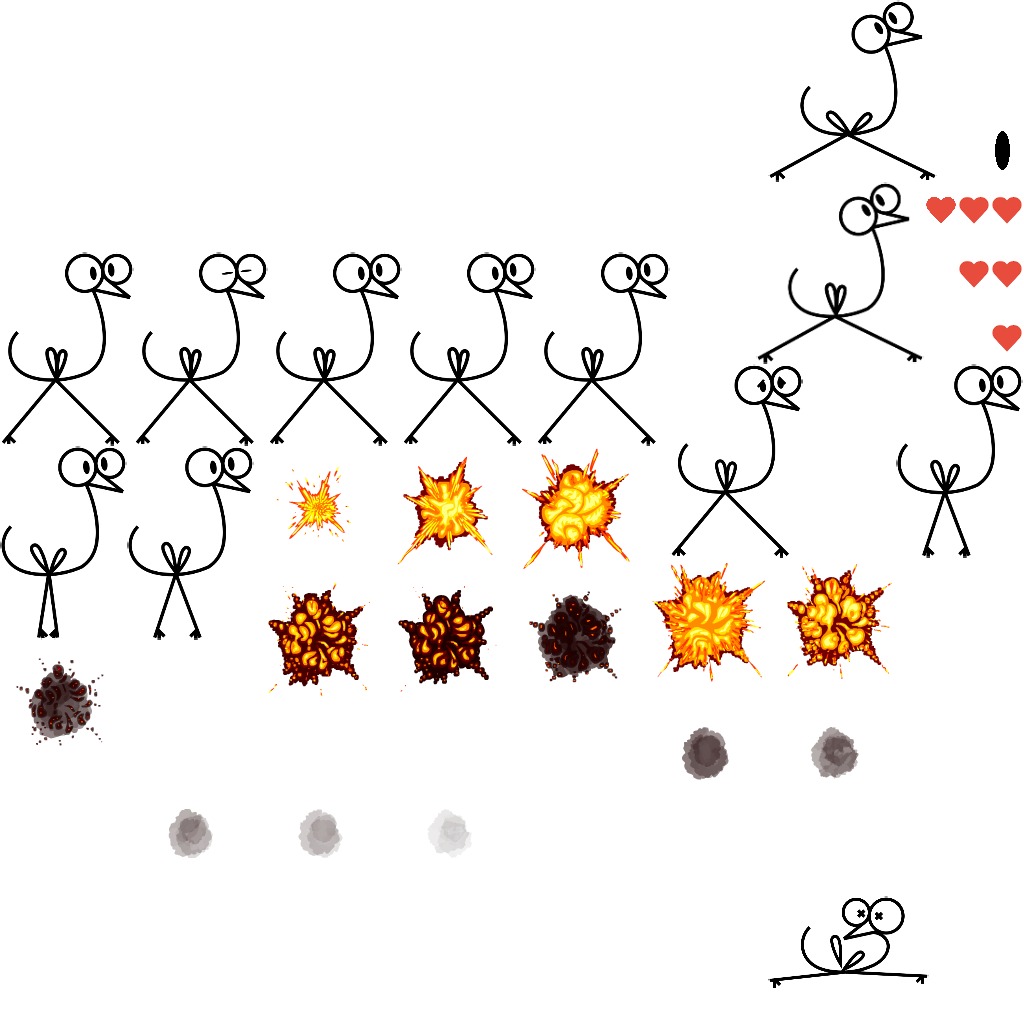
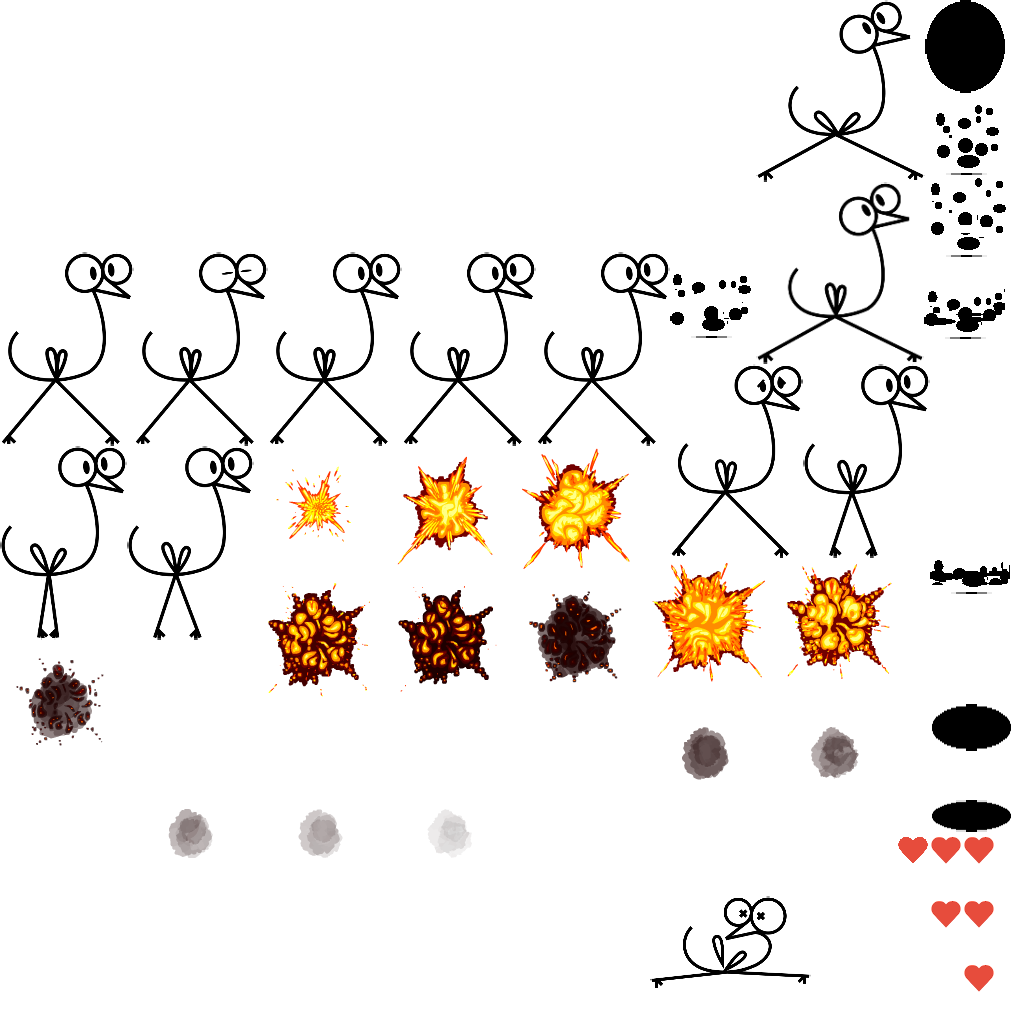
Drops 0.3

diff --git a/Franguilongo/data.js b/Franguilongo/data.js
@@ -1,1 +1,1 @@
-{"project":["Drops",null,[[0,false,true,true,true,true,true,true,true,true],[2,false,true,true,true,true,true,true,true,false],[7,false,true,true,true,true,true,true,true,false],[8,true,false,false,false,false,false,false,false,false],[9,true,false,false,false,false,false,false,false,false]],[["TiledBackground",0,false,[],1,0,["images/tiledbackground-sheet0.png",89,0,0,0,2,2],null,[["Solid",1,573632053130792]],false,false,648073564169996,[],null],["Sprite",2,false,[691345014251276],3,0,null,[["Blinking",5,true,1,0,false,311884812484082,[["images/shared-0-sheet0.png",211199,135,253,132,192,1,0.4318181818181818,1,[],[],0],["images/shared-0-sheet0.png",211199,1,253,132,192,1,0.4318181818181818,1,[],[-0.4318181818181818,-1,0.027883310719131582,-1,0.5681818181818181,-1,0.5681818181818181,-0.5728952772073922,0.5681818181818181,0,0.027883310719131582,0,-0.4318181818181818,0,-0.4318181818181818,-0.5728952772073922],0],["images/shared-0-sheet0.png",211199,269,253,132,192,1,0.4318181818181818,1,[],[-0.4318181818181818,-1,0.027883310719131582,-1,0.5681818181818181,-1,0.5681818181818181,-0.5728952772073922,0.5681818181818181,0,0.027883310719131582,0,-0.4318181818181818,0,-0.4318181818181818,-0.5728952772073922],0],["images/shared-0-sheet0.png",211199,403,253,132,192,1,0.4318181818181818,1,[],[-0.4318181818181818,-1,0.027883310719131582,-1,0.5681818181818181,-1,0.5681818181818181,-0.5728952772073922,0.5681818181818181,0,0.027883310719131582,0,-0.4318181818181818,0,-0.4318181818181818,-0.5728952772073922],0]]],["Walking",10,true,1,0,false,760921945451684,[["images/shared-0-sheet0.png",211199,537,253,132,192,1,0.36363636363636365,0.9947916666666666,[],[],0],["images/shared-0-sheet0.png",211199,897,365,125,192,1,0.384,0.9947916666666666,[],[],0],["images/shared-0-sheet0.png",211199,1,447,125,192,1,0.384,0.9947916666666666,[],[],0],["images/shared-0-sheet0.png",211199,128,447,125,192,1,0.384,0.9947916666666666,[],[],0]]],["Jumping",10,true,1,0,false,945552887204513,[["images/shared-0-sheet0.png",211199,769,1,167,180,1,0.47305389221556887,0.9944444444444445,[],[],0],["images/shared-0-sheet0.png",211199,757,183,166,180,1,0.4759036144578313,0.9944444444444445,[],[],0]]],["Sad",5,false,1,0,false,624982636265819,[["images/shared-0-sheet0.png",211199,671,365,131,192,1,0.3893129770992366,1,[],[],0]]],["Dead",5,false,1,0,false,122531426965580,[["images/shared-0-sheet0.png",211199,769,897,159,90,1,0.4591194968553459,0.9888888888888889,[],[],0]]]],[["Platform",3,186866265033085],["Flash",4,637199490651359],["BoundToLayout",5,909741888443321]],false,false,140964503252814,[],null],["Sprite2",2,false,[],1,0,null,[["Animation 1",5,false,1,0,false,104097505357344,[["images/shared-0-sheet0.png",211199,993,129,19,43,1,0.47368421052631576,0.9534883720930233,[],[],0]]]],[["Bullet",6,776215468649723]],false,false,452500526832754,[],null],["DarkRedHeartTransparentBackground",2,false,[],0,0,null,[["Default",0,false,1,0,false,328186743776857,[["images/shared-0-sheet0.png",211199,925,193,98,32,1,0.9999999999999999,0.46875,[],[-0.9897959183673468,-0.4375,-0.6632653061224489,-0.4375,-0.6632653061224489,0.53125,-0.9897959183673468,0.53125],0],["images/shared-0-sheet0.png",211199,925,257,98,32,1,1,0.46875,[],[-0.9897959183673469,-0.4375,-0.6632653061224489,-0.4375,-0.6632653061224489,0.53125,-0.9897959183673469,0.53125],0],["images/shared-0-sheet0.png",211199,925,321,98,32,1,1,0.46875,[],[-0.9897959183673469,-0.4375,-0.6632653061224489,-0.4375,-0.6632653061224489,0.53125,-0.9897959183673469,0.53125],0]]]],[],false,false,843974546907693,[],null],["Sprite3",2,false,[],0,0,null,[["Animation 1",15,false,1,0,false,915082731352190,[["images/shared-0-sheet0.png",211199,255,447,128,128,1,0.484375,0.484375,[],[],0],["images/shared-0-sheet0.png",211199,385,447,128,128,1,0.484375,0.484375,[],[],0],["images/shared-0-sheet0.png",211199,515,447,128,128,1,0.484375,0.484375,[],[],0],["images/shared-0-sheet0.png",211199,645,559,128,128,1,0.484375,0.484375,[],[],0],["images/shared-0-sheet0.png",211199,775,559,128,128,1,0.484375,0.484375,[],[],0],["images/shared-0-sheet0.png",211199,255,577,128,128,1,0.484375,0.484375,[],[],0],["images/shared-0-sheet0.png",211199,385,577,128,128,1,0.484375,0.484375,[],[],0],["images/shared-0-sheet0.png",211199,515,577,128,128,1,0.484375,0.484375,[],[],0],["images/shared-0-sheet0.png",211199,1,641,128,128,1,0.484375,0.484375,[],[],0],["images/shared-0-sheet0.png",211199,645,689,128,128,1,0.484375,0.484375,[],[],0],["images/shared-0-sheet0.png",211199,775,689,128,128,1,0.484375,0.484375,[],[],0],["images/shared-0-sheet0.png",211199,131,769,128,128,1,0.484375,0.484375,[],[],0],["images/shared-0-sheet0.png",211199,261,769,128,128,1,0.484375,0.484375,[],[],0],["images/shared-0-sheet0.png",211199,391,769,128,128,1,0.484375,0.484375,[],[],0],["images/shared-0-sheet0.png",211199,1,771,128,128,1,0.484375,0.484375,[],[],0],["images/shared-0-sheet0.png",211199,521,819,128,128,1,0.484375,0.484375,[],[],0]]]],[],false,false,322182893282253,[],null],["Text",7,false,[],0,0,null,null,[],false,false,853781776459319,[],null],["Text2",7,false,[],0,0,null,null,[],false,false,996966190515073,[],null],["Keyboard",8,false,[],0,0,null,null,[],false,false,908086171281078,[],null,[]],["Touch",9,false,[],0,0,null,null,[],false,false,348674781711052,[],null,[true]],["TouchRight",2,false,[],0,0,null,[["Animation 1",5,false,1,0,false,748614816075516,[["images/shared-0-sheet0.png",211199,1,1,250,250,1,0.5,0.5,[],[],0]]]],[],false,false,863497655711463,[],null],["ToucheLeft",2,false,[],0,0,null,[["Animation 1",5,false,1,0,false,470277280936923,[["images/shared-0-sheet0.png",211199,253,1,250,250,1,0.5,0.5,[],[],0]]]],[],false,false,545639505576629,[],null],["TouchUp",2,false,[],0,0,null,[["Animation 1",5,false,1,0,false,605917555089482,[["images/shared-0-sheet0.png",211199,505,1,250,250,1,0.5,0.5,[],[],0]]]],[],false,false,464666509452229,[],null]],[],[["Layout 1",1920,1080,false,"Event sheet 1",795333427025378,[["Layer 0",0,455458963541355,true,[255,255,255],false,1,1,1,false,false,1,0,0,[[[0,1024,0,1920,64,0,0,1,0,0,0,0,[]],0,1,[],[[true]],[true,0]],[[928,1024,0,119.78507462686568,176.62422997946612,0,0,1,0.4318181818181818,1,0,0,[]],1,2,[[3]],[[330,1500,1500,650,1500,1000,false,0,false,true],[],[1]],[true,"Blinking",0,true]],[[320,0,0,19,43,0,0,1,0.47368421052631576,0.9534883720930233,0,0,[]],2,3,[],[[0,0,1000,false,false,false,true]],[true,"Animation 1",0,true]],[[1888,48,0,98,32,0,0,1,0.9999999999999999,0.46875,0,0,[]],3,4,[],[],[true,"Default",0,true]],[[1024,-64,0,128,128,0,0,1,0.484375,0.484375,0,0,[]],4,5,[],[],[true,"Animation 1",0,true]],[[896,464,0,96,32,0,0,1,0,0,0,0,[]],5,6,[],[],["YOU LOSE!","Arial",12,0,false,false,[0,0,0],0,0,0,false,0]],[[32,32,0,200,30,0,0,1,0,0,0,0,[]],6,7,[],[],["Drops Avoided: 0","Arial",12,0,false,false,[0,0,0],0,0,0,true,0]],[[1437,779,0,960,624,0,0,1,0.5,0.5,0,0,[]],9,10,[],[],[true,"Animation 1",0,true]],[[464,776,0,928,624,0,0,1,0.5,0.5,0,0,[]],10,11,[],[],[true,"Animation 1",0,true]],[[960,224,0,1920,464,0,0,1,0.5,0.5,0,0,[]],11,12,[],[],[true,"Animation 1",0,true]]],[]]],[],[],[]]],[["Event sheet 1",[[1,"GameOver",2,false,false,false,291143209698729,false],[1,"Drops",0,0,false,false,332489462388240,false],[0,null,false,null,221678187849093,[[7,10,null,1,false,false,false,396279645971351,false],[-1,11,null,0,false,false,false,831394372396753,false,[[11,"GameOver"]]]],[[-1,12,null,753591277071441,false,[[11,"GameOver"],[3,0]]],[-1,13,null,770049977574955,false,[[11,"Drops"],[7,[1,0]]]],[-1,14,null,700853322199231,false]]],[0,null,false,null,536836065824233,[[-1,11,null,0,false,true,false,548174686591798,false,[[11,"GameOver"]]]],[],[[0,null,false,null,209041690291825,[[2,15,null,0,false,false,true,754779754522694,false,[[4,0]]]],[[2,16,null,989981405466613,false]],[[0,null,false,null,232932205671997,[[-1,11,null,0,false,true,false,707973007954042,false,[[11,"GameOver"]]]],[[-1,17,null,286090736200420,false,[[11,"Drops"],[7,[1,1]]]],[6,18,null,639134521024028,false,[[7,[10,[2,"Drops Avoided: "],[23,"Drops"]]]]]]]]],[0,null,false,null,185535392341683,[[-1,19,null,0,false,false,false,946030008723503,false,[[0,[1,0.3]]]]],[[-1,20,null,525491444762559,false,[[4,2],[5,[1,0]],[0,[19,21,[[1,0],[19,22]]]],[0,[1,0]]]]]],[0,null,false,null,330343093620594,[[1,23,null,0,false,false,false,318792376163121,false,[[10,0],[8,0],[7,[1,0]]]]],[[-1,12,null,265413076568542,false,[[11,"GameOver"],[3,1]]],[1,24,null,567009502036959,false,[[1,[2,"Dead"]],[3,1]]],[3,16,null,189921452192626,false],[3,25,null,247692947553926,false,[[4,4],[5,[1,0]],[7,[1,0]]]],[5,26,null,422987480735414,false,[[3,1]]]]],[0,null,false,null,670932378182675,[[2,15,null,0,false,false,true,250136539827882,false,[[4,1]]],[1,27,"Flash",0,false,true,false,519522673690044,false]],[[1,28,"Flash",761868559879138,false,[[0,[1,0.1]],[0,[1,0.1]],[0,[1,1]]]],[1,29,null,370139059365135,false,[[10,0],[7,[1,1]]]],[3,30,null,198851016797660,false,[[0,[5,[1,3],[21,1,false,null,0]]]]]]],[0,null,true,null,833594748358514,[[7,31,null,0,false,false,false,260287784253524,false,[[9,37]]],[8,32,null,0,false,false,false,153792525106203,false,[[4,10]]]],[[1,33,null,496931956318277,false,[[3,0]]],[1,34,"Platform",308524248851044,false,[[3,0]]]]],[0,null,true,null,214864402536857,[[7,31,null,0,false,false,false,669070147913069,false,[[9,39]]],[8,32,null,0,false,false,false,198463156453775,false,[[4,9]]]],[[1,33,null,737904512929112,false,[[3,1]]],[1,34,"Platform",133997310111039,false,[[3,1]]]]],[0,null,false,null,484610954716653,[[1,35,"Platform",0,false,false,false,798326249322446,false]],[[1,24,null,816829045660893,false,[[1,[2,"Jumping"]],[3,1]]]]],[0,null,false,null,489680445995601,[[1,27,"Flash",0,false,false,false,516736219765881,false]],[[1,24,null,682563507846389,false,[[1,[2,"Sad"]],[3,1]]]]],[0,null,false,null,157362056540493,[[1,36,"Platform",0,false,false,false,269577981722206,false],[1,37,"Platform",0,false,true,false,388820955834601,false]],[[1,24,null,412301235932988,false,[[1,[2,"Blinking"]],[3,1]]]]],[0,null,false,null,885693384114975,[[1,37,"Platform",0,false,false,false,115091740066957,false],[1,36,"Platform",0,false,false,false,912788760671952,false]],[[1,24,null,549816846735182,false,[[1,[2,"Walking"]],[3,1]]]]],[0,null,false,null,346024896180170,[[1,38,"Platform",0,false,false,false,396053626196403,false]],[[1,24,null,183073139649846,false,[[1,[2,"Jumping"]],[3,1]]]]]]],[0,null,false,null,480970799100046,[[-1,11,null,0,false,false,false,285851969464980,false,[[11,"GameOver"]]]],[[1,24,null,105794705853302,false,[[1,[2,"Dead"]],[3,1]]]]],[0,null,true,null,189474694174987,[[7,39,null,1,false,false,false,662693045916971,false,[[9,38]]],[8,32,null,0,false,false,false,451713366928989,false,[[4,11]]]],[[1,34,"Platform",691752790862313,false,[[3,2]]]]],[0,null,false,null,638633796105516,[[8,40,null,1,false,false,false,471457986024465,false],[-1,11,null,0,false,false,false,455557710080447,false,[[11,"GameOver"]]]],[[-1,14,null,997548114264296,false],[-1,12,null,987017520791929,false,[[11,"GameOver"],[3,0]]],[-1,13,null,500829506570016,false,[[11,"Drops"],[7,[1,0]]]]]]]]],[],"media/",false,1920,1080,4,true,true,true,"1.0.0.0",true,false,4,2,13,false,true,1,true,false,[],"icons/",[],true]}
+{"project":["Drops",null,[[0,false,true,true,true,true,true,true,true,true],[2,false,true,true,true,true,true,true,true,false],[7,false,true,true,true,true,true,true,true,false],[8,true,false,false,false,false,false,false,false,false],[9,true,false,false,false,false,false,false,false,false]],[["TiledBackground",0,false,[],1,0,["images/tiledbackground-sheet0.png",89,0,0,0,2,2],null,[["Solid",1,573632053130792]],false,false,648073564169996,[],null],["Sprite",2,false,[691345014251276],3,0,null,[["Blinking",5,true,1,0,false,311884812484082,[["images/shared-0-sheet0.png",216587,135,253,132,192,1,0.4318181818181818,1,[],[],0],["images/shared-0-sheet0.png",216587,1,253,132,192,1,0.4318181818181818,1,[],[-0.4318181818181818,-1,0.027883310719131582,-1,0.5681818181818181,-1,0.5681818181818181,-0.5728952772073922,0.5681818181818181,0,0.027883310719131582,0,-0.4318181818181818,0,-0.4318181818181818,-0.5728952772073922],0],["images/shared-0-sheet0.png",216587,269,253,132,192,1,0.4318181818181818,1,[],[-0.4318181818181818,-1,0.027883310719131582,-1,0.5681818181818181,-1,0.5681818181818181,-0.5728952772073922,0.5681818181818181,0,0.027883310719131582,0,-0.4318181818181818,0,-0.4318181818181818,-0.5728952772073922],0],["images/shared-0-sheet0.png",216587,403,253,132,192,1,0.4318181818181818,1,[],[-0.4318181818181818,-1,0.027883310719131582,-1,0.5681818181818181,-1,0.5681818181818181,-0.5728952772073922,0.5681818181818181,0,0.027883310719131582,0,-0.4318181818181818,0,-0.4318181818181818,-0.5728952772073922],0]]],["Walking",20,true,1,0,false,760921945451684,[["images/shared-0-sheet0.png",216587,537,253,132,192,1,0.36363636363636365,0.9947916666666666,[],[],0],["images/shared-0-sheet0.png",216587,804,365,125,192,1,0.384,0.9947916666666666,[],[],0],["images/shared-0-sheet0.png",216587,1,447,125,192,1,0.384,0.9947916666666666,[],[],0],["images/shared-0-sheet0.png",216587,128,447,125,192,1,0.384,0.9947916666666666,[],[],0]]],["Jumping",10,true,1,0,false,945552887204513,[["images/shared-0-sheet0.png",216587,757,1,167,180,1,0.47305389221556887,0.9944444444444445,[],[],0],["images/shared-0-sheet0.png",216587,757,183,166,180,1,0.4759036144578313,0.9944444444444445,[],[],0]]],["Sad",5,false,1,0,false,624982636265819,[["images/shared-0-sheet0.png",216587,671,365,131,192,1,0.3893129770992366,1,[],[],0]]],["Dead",5,false,1,0,false,122531426965580,[["images/shared-0-sheet0.png",216587,651,897,159,90,1,0.4591194968553459,0.9888888888888889,[],[],0]]]],[["Platform",3,186866265033085],["Flash",4,637199490651359],["BoundToLayout",5,909741888443321]],false,false,140964503252814,[],null],["Sprite2",2,false,[],1,0,null,[["Animation 1",15,false,1,0,false,104097505357344,[["images/shared-0-sheet0.png",216587,926,1,81,91,1,0.49382716049382713,1,[],[],0]]],["Explosion",20,false,1,0,false,487496884821104,[["images/shared-0-sheet0.png",216587,931,705,81,45,1,0.5061728395061729,0.9777777777777777,[],[],0],["images/shared-0-sheet0.png",216587,931,801,81,30,1,0.5061728395061729,0.9666666666666667,[],[],0],["images/shared-0-sheet0.png",216587,926,94,81,80,1,0.5185185185185185,0.9875,[],[],0],["images/shared-0-sheet0.png",216587,926,176,81,80,1,0.5185185185185185,0.9875,[],[],0],["images/shared-0-sheet0.png",216587,671,257,81,80,1,0.5185185185185185,0.9875,[],[],0],["images/shared-0-sheet0.png",216587,925,258,81,80,1,0.5185185185185185,0.9875,[],[],0],["images/shared-0-sheet0.png",216587,931,513,81,80,1,0.5185185185185185,0.9875,[],[],0]]]],[["Bullet",6,776215468649723]],false,false,452500526832754,[],null],["DarkRedHeartTransparentBackground",2,false,[],0,0,null,[["Default",0,false,1,0,false,328186743776857,[["images/shared-0-sheet0.png",216587,897,833,98,32,1,0.9999999999999999,0.46875,[],[-0.9897959183673468,-0.4375,-0.6632653061224489,-0.4375,-0.6632653061224489,0.53125,-0.9897959183673468,0.53125],0],["images/shared-0-sheet0.png",216587,897,897,98,32,1,1,0.46875,[],[-0.9897959183673469,-0.4375,-0.6632653061224489,-0.4375,-0.6632653061224489,0.53125,-0.9897959183673469,0.53125],0],["images/shared-0-sheet0.png",216587,897,961,98,32,1,1,0.46875,[],[-0.9897959183673469,-0.4375,-0.6632653061224489,-0.4375,-0.6632653061224489,0.53125,-0.9897959183673469,0.53125],0]]]],[],false,false,843974546907693,[],null],["Sprite3",2,false,[],0,0,null,[["Animation 1",15,false,1,0,false,915082731352190,[["images/shared-0-sheet0.png",216587,255,447,128,128,1,0.484375,0.484375,[],[],0],["images/shared-0-sheet0.png",216587,385,447,128,128,1,0.484375,0.484375,[],[],0],["images/shared-0-sheet0.png",216587,515,447,128,128,1,0.484375,0.484375,[],[],0],["images/shared-0-sheet0.png",216587,645,559,128,128,1,0.484375,0.484375,[],[],0],["images/shared-0-sheet0.png",216587,775,559,128,128,1,0.484375,0.484375,[],[],0],["images/shared-0-sheet0.png",216587,255,577,128,128,1,0.484375,0.484375,[],[],0],["images/shared-0-sheet0.png",216587,385,577,128,128,1,0.484375,0.484375,[],[],0],["images/shared-0-sheet0.png",216587,515,577,128,128,1,0.484375,0.484375,[],[],0],["images/shared-0-sheet0.png",216587,1,641,128,128,1,0.484375,0.484375,[],[],0],["images/shared-0-sheet0.png",216587,645,689,128,128,1,0.484375,0.484375,[],[],0],["images/shared-0-sheet0.png",216587,775,689,128,128,1,0.484375,0.484375,[],[],0],["images/shared-0-sheet0.png",216587,131,769,128,128,1,0.484375,0.484375,[],[],0],["images/shared-0-sheet0.png",216587,261,769,128,128,1,0.484375,0.484375,[],[],0],["images/shared-0-sheet0.png",216587,391,769,128,128,1,0.484375,0.484375,[],[],0],["images/shared-0-sheet0.png",216587,1,771,128,128,1,0.484375,0.484375,[],[],0],["images/shared-0-sheet0.png",216587,521,819,128,128,1,0.484375,0.484375,[],[],0]]]],[],false,false,322182893282253,[],null],["Text",7,false,[],0,0,null,null,[],false,false,853781776459319,[],null],["Text2",7,false,[],0,0,null,null,[],false,false,996966190515073,[],null],["Keyboard",8,false,[],0,0,null,null,[],false,false,908086171281078,[],null,[]],["Touch",9,false,[],0,0,null,null,[],false,false,348674781711052,[],null,[true]],["TouchRight",2,false,[],0,0,null,[["Animation 1",5,false,1,0,false,748614816075516,[["images/shared-0-sheet0.png",216587,1,1,250,250,1,0.5,0.5,[],[],0]]]],[],false,false,863497655711463,[],null],["ToucheLeft",2,false,[],0,0,null,[["Animation 1",5,false,1,0,false,470277280936923,[["images/shared-0-sheet0.png",216587,253,1,250,250,1,0.5,0.5,[],[],0]]]],[],false,false,545639505576629,[],null],["TouchUp",2,false,[],0,0,null,[["Animation 1",5,false,1,0,false,605917555089482,[["images/shared-0-sheet0.png",216587,505,1,250,250,1,0.5,0.5,[],[],0]]]],[],false,false,464666509452229,[],null]],[],[["Layout 1",1920,1080,false,"Event sheet 1",795333427025378,[["Layer 0",0,455458963541355,true,[255,255,255],false,1,1,1,false,false,1,0,0,[[[0,1024,0,1920,64,0,0,1,0,0,0,0,[]],0,1,[],[[true]],[true,0]],[[928,1024,0,119.78507462686568,176.62422997946612,0,0,1,0.4318181818181818,1,0,0,[]],1,2,[[3]],[[330,1500,1500,650,1500,1000,false,0,false,true],[],[1]],[true,"Blinking",0,true]],[[320,0,0,64,64,0,0,1,0.49382716049382713,1,0,0,[]],2,3,[],[[0,0,1000,false,false,false,true]],[true,"Animation 1",0,true]],[[1888,48,0,98,32,0,0,1,0.9999999999999999,0.46875,0,0,[]],3,4,[],[],[true,"Default",0,true]],[[1024,-64,0,128,128,0,0,1,0.484375,0.484375,0,0,[]],4,5,[],[],[true,"Animation 1",0,true]],[[256,400,0,1424,272,0,0,1,0,0,0,0,[]],5,6,[],[],["YOU LOSE!","Courier New",90,0,true,false,[0,0,0],1,0,0,false,0]],[[32,32,0,608,64,0,0,1,0,0,0,0,[]],6,7,[],[],["Drops Avoided: 0","Courier New",32,0,true,false,[0,0,0],0,0,0,true,0]],[[1437,779,0,960,624,0,0,1,0.5,0.5,0,0,[]],9,10,[],[],[true,"Animation 1",0,true]],[[464,776,0,928,624,0,0,1,0.5,0.5,0,0,[]],10,11,[],[],[true,"Animation 1",0,true]],[[960,224,0,1920,464,0,0,1,0.5,0.5,0,0,[]],11,12,[],[],[true,"Animation 1",0,true]]],[]]],[],[],[]]],[["Event sheet 1",[[1,"GameOver",2,false,false,false,291143209698729,false],[1,"Drops",0,0,false,false,332489462388240,false],[0,null,false,null,221678187849093,[[7,10,null,1,false,false,false,396279645971351,false],[-1,11,null,0,false,false,false,831394372396753,false,[[11,"GameOver"]]]],[[-1,12,null,753591277071441,false,[[11,"GameOver"],[3,0]]],[-1,13,null,770049977574955,false,[[11,"Drops"],[7,[1,0]]]],[-1,14,null,700853322199231,false]]],[0,null,false,null,536836065824233,[[-1,11,null,0,false,true,false,548174686591798,false,[[11,"GameOver"]]]],[],[[0,null,false,null,209041690291825,[[2,15,null,0,false,false,true,754779754522694,false,[[4,0]]]],[[2,16,null,293979915582060,false,[[1,[2,"Explosion"]],[3,1]]],[2,17,"Bullet",780635447281666,false,[[3,0]]]],[[0,null,false,null,232932205671997,[[-1,11,null,0,false,true,false,707973007954042,false,[[11,"GameOver"]]]],[[-1,18,null,286090736200420,false,[[11,"Drops"],[7,[1,1]]]],[6,19,null,639134521024028,false,[[7,[10,[2,"Drops Avoided: "],[23,"Drops"]]]]]]]]],[0,null,false,null,185535392341683,[[-1,20,null,0,false,false,false,946030008723503,false,[[0,[1,0.3]]]]],[[-1,21,null,525491444762559,false,[[4,2],[5,[1,0]],[0,[19,22,[[1,0],[19,23]]]],[0,[1,0]]]]]],[0,null,false,null,330343093620594,[[1,24,null,0,false,false,false,318792376163121,false,[[10,0],[8,0],[7,[1,0]]]]],[[-1,12,null,265413076568542,false,[[11,"GameOver"],[3,1]]],[1,16,null,567009502036959,false,[[1,[2,"Dead"]],[3,1]]],[3,25,null,189921452192626,false],[3,26,null,247692947553926,false,[[4,4],[5,[1,0]],[7,[1,0]]]],[5,19,null,979254548834584,false,[[7,[10,[10,[2,"YOU LOSE! YOU MADE: "],[23,"Drops"]],[2," POINTS"]]]]],[5,27,null,785499109919357,false,[[3,1]]]]],[0,null,false,null,670932378182675,[[2,15,null,0,false,false,true,250136539827882,false,[[4,1]]],[1,28,"Flash",0,false,true,false,519522673690044,false]],[[1,29,"Flash",761868559879138,false,[[0,[1,0.1]],[0,[1,0.1]],[0,[1,1]]]],[1,30,null,370139059365135,false,[[10,0],[7,[1,1]]]],[3,31,null,198851016797660,false,[[0,[5,[1,3],[21,1,false,null,0]]]]]]],[0,null,true,null,833594748358514,[[7,32,null,0,false,false,false,260287784253524,false,[[9,37]]],[8,33,null,0,false,false,false,153792525106203,false,[[4,10]]]],[[1,34,null,496931956318277,false,[[3,0]]],[1,35,"Platform",308524248851044,false,[[3,0]]]]],[0,null,true,null,214864402536857,[[7,32,null,0,false,false,false,669070147913069,false,[[9,39]]],[8,33,null,0,false,false,false,198463156453775,false,[[4,9]]]],[[1,34,null,737904512929112,false,[[3,1]]],[1,35,"Platform",133997310111039,false,[[3,1]]]]],[0,null,false,null,484610954716653,[[1,36,"Platform",0,false,false,false,798326249322446,false]],[[1,16,null,816829045660893,false,[[1,[2,"Jumping"]],[3,1]]]]],[0,null,false,null,489680445995601,[[1,28,"Flash",0,false,false,false,516736219765881,false]],[[1,16,null,682563507846389,false,[[1,[2,"Sad"]],[3,1]]]]],[0,null,false,null,157362056540493,[[1,37,"Platform",0,false,false,false,269577981722206,false],[1,38,"Platform",0,false,true,false,388820955834601,false]],[[1,16,null,412301235932988,false,[[1,[2,"Blinking"]],[3,1]]]]],[0,null,false,null,885693384114975,[[1,38,"Platform",0,false,false,false,115091740066957,false],[1,37,"Platform",0,false,false,false,912788760671952,false]],[[1,16,null,549816846735182,false,[[1,[2,"Walking"]],[3,1]]]]],[0,null,false,null,346024896180170,[[1,39,"Platform",0,false,false,false,396053626196403,false]],[[1,16,null,183073139649846,false,[[1,[2,"Jumping"]],[3,1]]]]]]],[0,null,false,null,480970799100046,[[-1,11,null,0,false,false,false,285851969464980,false,[[11,"GameOver"]]]],[[1,16,null,105794705853302,false,[[1,[2,"Dead"]],[3,1]]]]],[0,null,true,null,189474694174987,[[7,40,null,1,false,false,false,662693045916971,false,[[9,38]]],[8,33,null,0,false,false,false,451713366928989,false,[[4,11]]]],[[1,35,"Platform",691752790862313,false,[[3,2]]]]],[0,null,false,null,638633796105516,[[8,41,null,1,false,false,false,471457986024465,false],[-1,11,null,0,false,false,false,455557710080447,false,[[11,"GameOver"]]]],[[-1,14,null,997548114264296,false],[-1,12,null,987017520791929,false,[[11,"GameOver"],[3,0]]],[-1,13,null,500829506570016,false,[[11,"Drops"],[7,[1,0]]]]]],[0,null,false,null,558232749199373,[[2,42,null,1,false,false,false,264075168146237,false,[[1,[2,"Explosion"]]]]],[[2,25,null,849399919577657,false]]]]]],[],"media/",false,1920,1080,4,true,true,true,"1.0.0.0",true,false,4,2,13,false,true,1,true,false,[],"icons/",[],true]}

diff --git a/Franguilongo/c2runtime.js b/Franguilongo/c2runtime.js
@@ -28296,7 +28296,8 @@ cr.getObjectRefTable = function () {
 		cr.system_object.prototype.acts.SetVar,
 		cr.system_object.prototype.acts.RestartLayout,
 		cr.plugins_.Sprite.prototype.cnds.OnCollision,
-		cr.plugins_.Sprite.prototype.acts.Destroy,
+		cr.plugins_.Sprite.prototype.acts.SetAnim,
+		cr.behaviors.Bullet.prototype.acts.SetEnabled,
 		cr.system_object.prototype.acts.AddVar,
 		cr.plugins_.Text.prototype.acts.SetText,
 		cr.system_object.prototype.cnds.Every,
@@ -28304,7 +28305,7 @@ cr.getObjectRefTable = function () {
 		cr.system_object.prototype.exps.random,
 		cr.system_object.prototype.exps.layoutwidth,
 		cr.plugins_.Sprite.prototype.cnds.CompareInstanceVar,
-		cr.plugins_.Sprite.prototype.acts.SetAnim,
+		cr.plugins_.Sprite.prototype.acts.Destroy,
 		cr.plugins_.Sprite.prototype.acts.Spawn,
 		cr.plugins_.Text.prototype.acts.SetVisible,
 		cr.behaviors.Flash.prototype.cnds.IsFlashing,
@@ -28320,7 +28321,8 @@ cr.getObjectRefTable = function () {
 		cr.behaviors.Platform.prototype.cnds.IsMoving,
 		cr.behaviors.Platform.prototype.cnds.IsJumping,
 		cr.plugins_.Keyboard.prototype.cnds.OnKey,
-		cr.plugins_.Touch.prototype.cnds.OnTouchStart
+		cr.plugins_.Touch.prototype.cnds.OnTouchStart,
+		cr.plugins_.Sprite.prototype.cnds.OnAnimFinished
 	];
 };
 

diff --git a/Franguilongo/offline.js b/Franguilongo/offline.js
@@ -1,1 +1,1 @@
-{"version":1513798280160,"fileList":["c2runtime.js","data.js","start.js","style.css","offlineClient.js","images/shared-0-sheet0.png","images/tiledbackground-sheet0.png","icons/loading-logo.png","icons/icon-16.png","icons/icon-32.png","icons/icon-64.png","icons/icon-128.png","icons/icon-256.png","icons/icon-512.png","register-sw.js"]}
+{"version":1513806748500,"fileList":["c2runtime.js","data.js","start.js","style.css","offlineClient.js","images/shared-0-sheet0.png","images/tiledbackground-sheet0.png","icons/loading-logo.png","icons/icon-16.png","icons/icon-32.png","icons/icon-64.png","icons/icon-128.png","icons/icon-256.png","icons/icon-512.png","register-sw.js"]}
